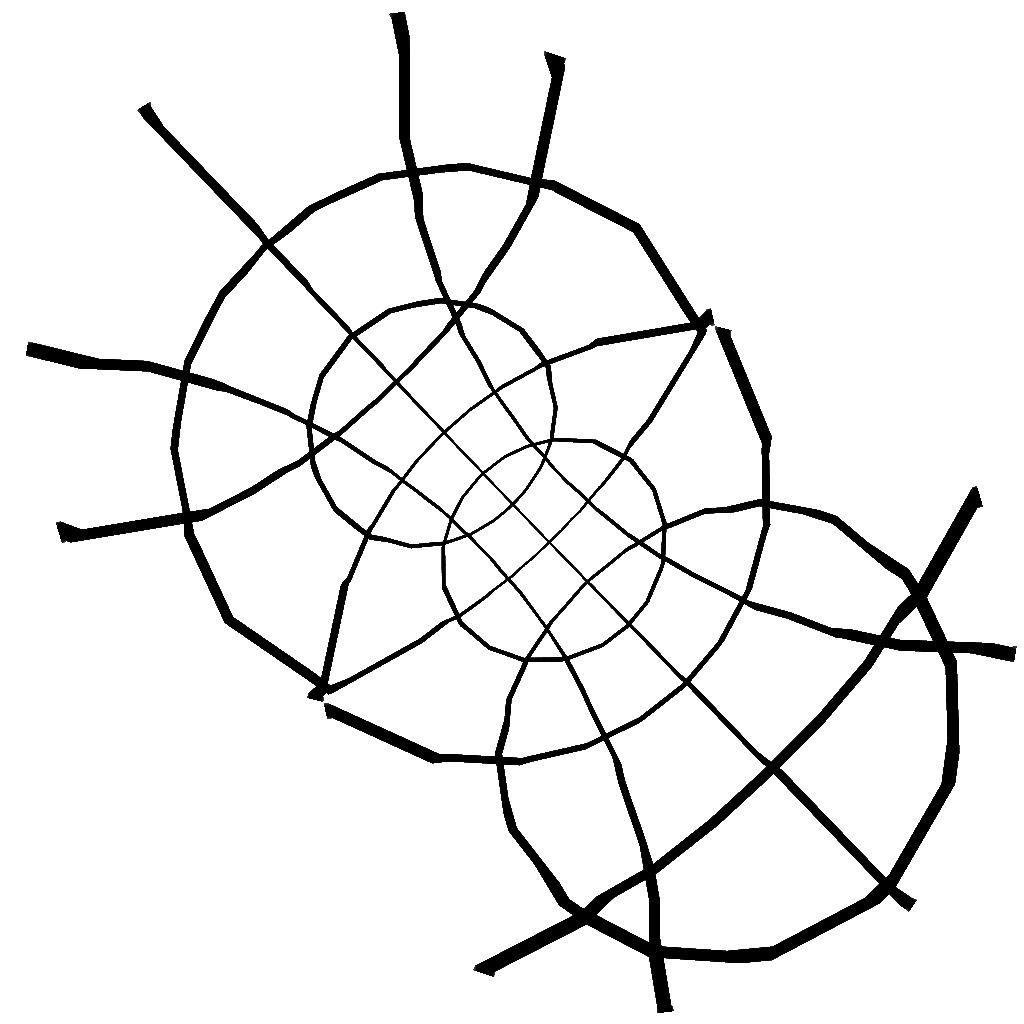
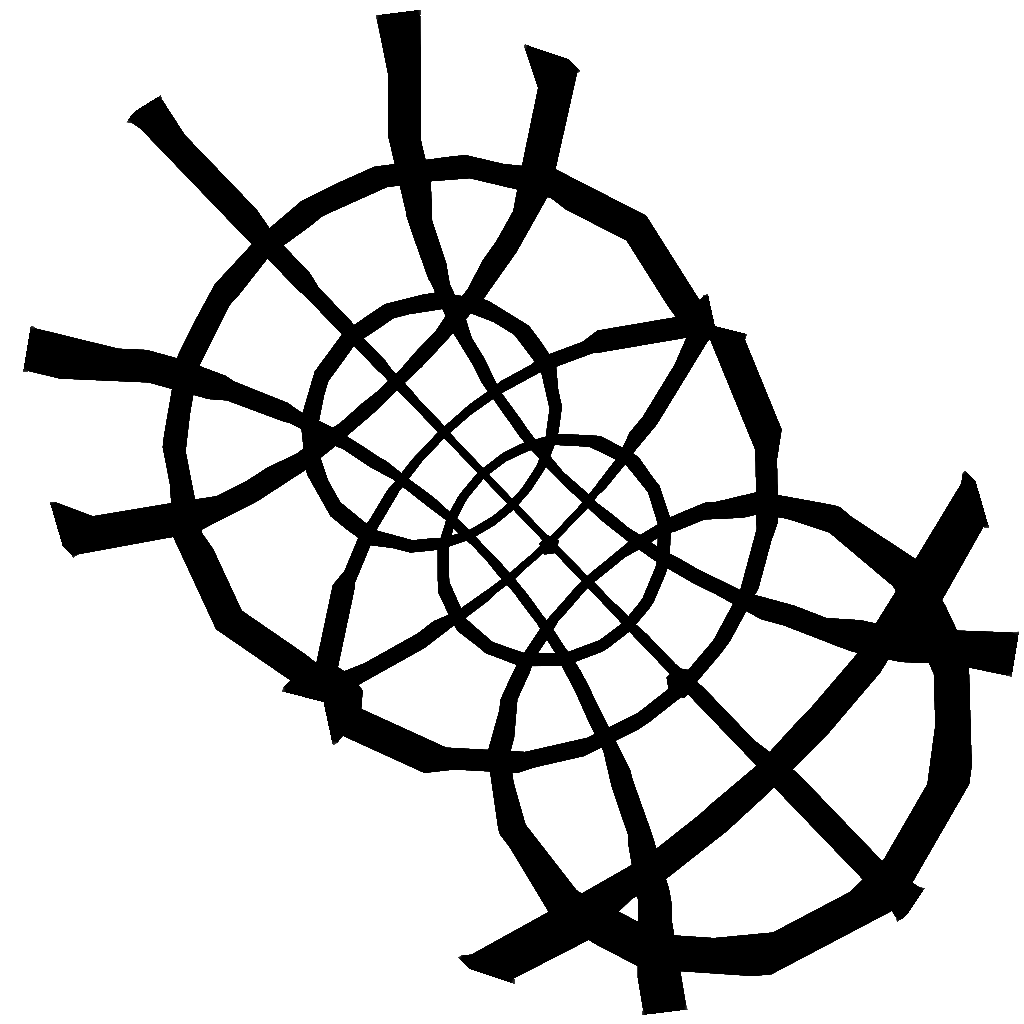
affichage des hitbox V1

Changed region(s): [[0.0, 0.0, 1.0, 1.0], [0.6875, 0.6875, 0.7188, 0.7188]]

diff --git a/SOURCE/Deplacement.cpp b/SOURCE/Deplacement.cpp
@@ -37,8 +37,11 @@ void afficheHitbox(sphere* hitbox, Shader* shader){
 	sphere.update(); sphere.draw(shader);
 }
 
-void afficheHitbox(std::vector<sphere>* hitbox, Shader* shader) {
+void afficheHitbox(std::vector<sphere>* hitbox, Shader* shader, glm::vec3* pos, float Rdistance) {
 	for (size_t i = 0; i < hitbox->size(); i++) {
-		afficheHitbox(&hitbox->operator[](i), shader);
+		if(distance(pos, &hitbox->operator[](i).centre) < Rdistance)
+			afficheHitbox(&hitbox->operator[](i), shader);
 	}
 }
+
+std::vector<sphere> sphere::affichage;

diff --git a/TERRAIN/Chunk.cpp b/TERRAIN/Chunk.cpp
@@ -249,6 +249,7 @@ void Chunk::createChunkData(Chunk* chunk)
 	chunk->CalculateHeights();
 	chunk->CalculateVertices();
 	chunk->CalculateIndices();
+	chunk->CalculateHitbox();
 
 	chunk->isCreated = true;
 	chunk->isReloading = false;
@@ -370,10 +371,11 @@ void Chunk::CalculateIndices()
 }
 
 void Chunk::CalculateHitbox() {
+	hitbox.clear();
 	hitbox.resize(vertices.size());
 
 	for (uint32_t i = 0; i < vertices.size(); i++) {
-		hitbox[i] = { vertices[i].positions, 0.1 };
+		hitbox[i] = { vertices[i].positions, 2 };
 	}
 }
 

diff --git a/SOURCE/Deplacement.h b/SOURCE/Deplacement.h
@@ -33,6 +33,8 @@ struct Physique {
 struct sphere {
 	glm::vec3 centre;
 	float rayon;
+
+	static std::vector<sphere> affichage;
 };
 
 //toutes les fonctions qui implemente le deplacement du joueur
@@ -43,4 +45,4 @@ bool collision(sphere* a, sphere* b);
 
 //outils de devellopement
 void afficheHitbox(sphere* hitbox, nico::Shader* shader);
-void afficheHitbox(std::vector<sphere>* hitbox, nico::Shader* shader);
+void afficheHitbox(std::vector<sphere>* hitbox, nico::Shader* shader, glm::vec3* pos, float distance = 10.0f);

diff --git a/TERRAIN/Land.cpp b/TERRAIN/Land.cpp
@@ -272,6 +272,11 @@ void Land::drawLand(Shader* shader)
 			x->second->draw(shader);
 		}
 	}
+
+	glm::ivec2 p = convertPlayerPosToChunkPos(cam->getPosition());
+
+	//sphere::affichage.insert(sphere::affichage.end(), land[p.x][p.y]->getHitbox()->begin(), land[p.x][p.y]->getHitbox()->end());
+	sphere::affichage = *land[p.x][p.y]->getHitbox();
 }
 
 void Land::drawWater(Shader* shader)

diff --git a/SOURCE/Simulateur.cpp b/SOURCE/Simulateur.cpp
@@ -96,7 +96,9 @@ int main() {
 		render.update();
 		render.frame();
 
-		afficheHitbox(&mongolHitbox, render.Shader());
+		//glDepthFunc(GL_ALWAYS);
+		afficheHitbox(&sphere::affichage, render.Shader(), &montgolPhysique.pos, 20);
+		sphere::affichage.clear();
 
 		//2d
 		render2d.frame();
